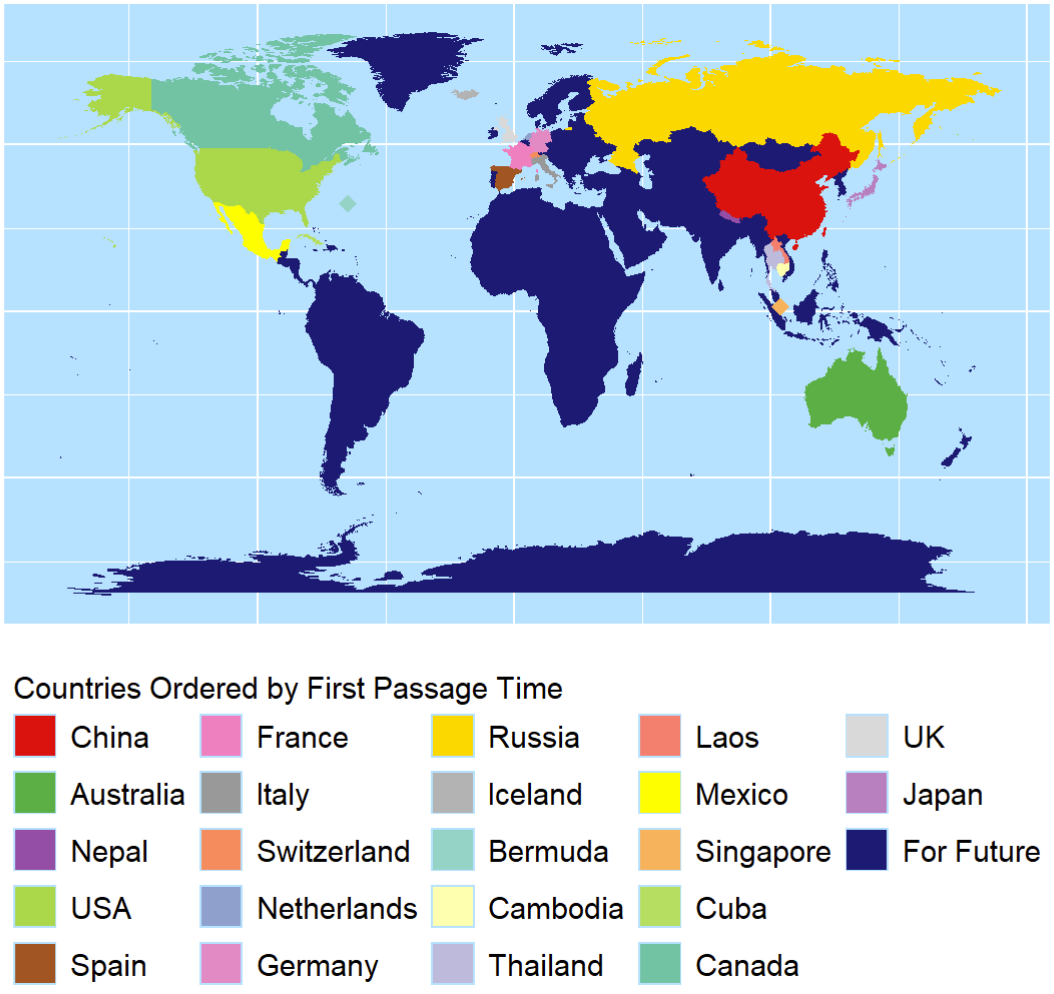
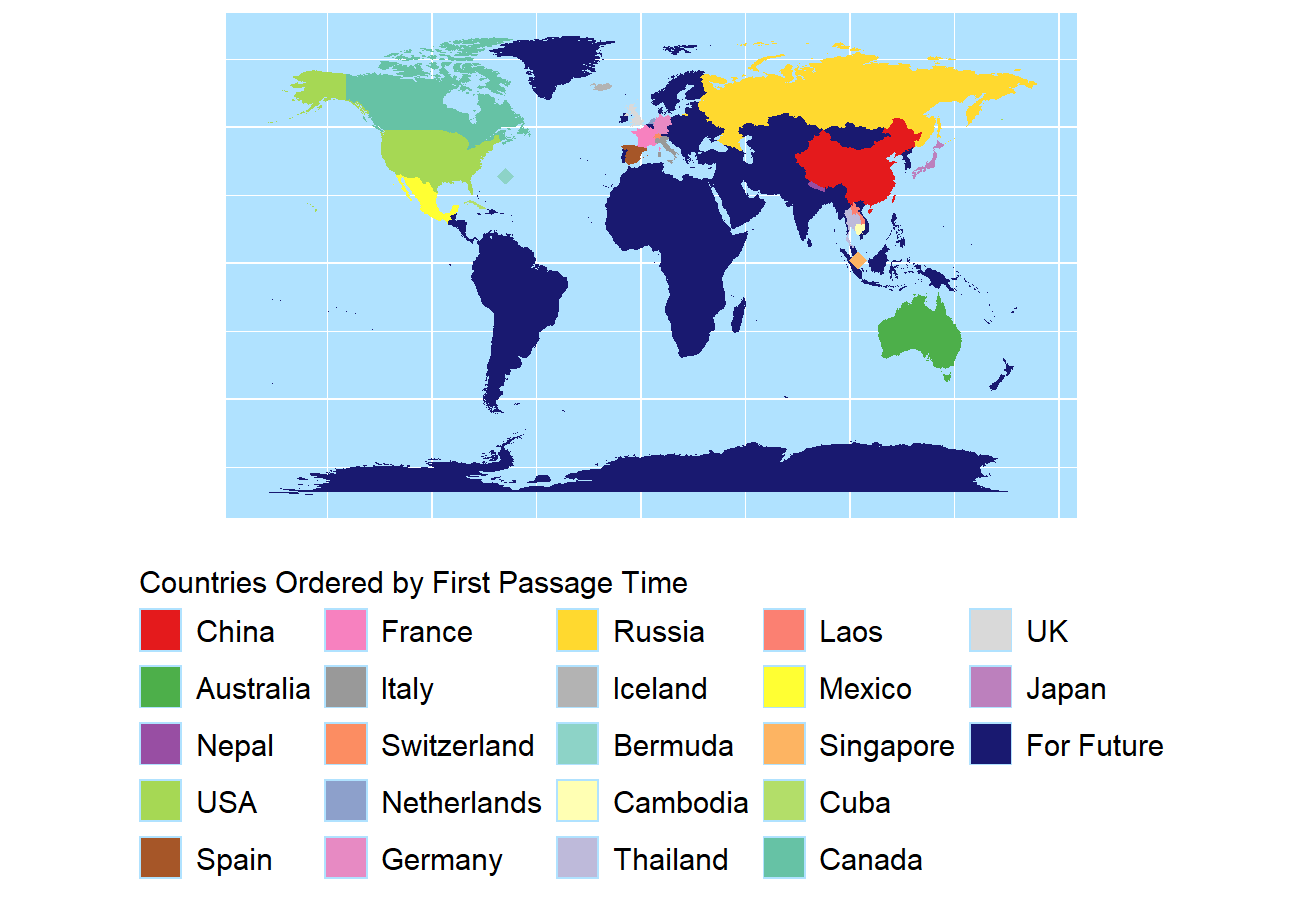
20260704

diff --git a/index.html b/index.html
@@ -704,6 +704,17 @@
       <p><b><font size='5'>Working Papers:</font></b></p>
 <link rel="stylesheet" href="https://cdnjs.cloudflare.com/ajax/libs/font-awesome/4.7.0/css/font-awesome.min.css">
 <!--
+shuyu
+-->
+<div class="view-list-item" itemscope itemtype="http://schema.org/{{$microdata_type}}">
+  <i class="far fa-file-alt" aria-hidden="true"></i>
+    <a href="https://papers.ssrn.com/sol3/papers.cfm?abstract_id=7051998" itemprop="url"><span itemprop="name">	
+When Engagement is Not Enough: Gameplay Elements in Educational Platforms.</span></a>
+<div class="article-metadata" itemprop="author">
+    with Yipu Deng, Jun Li and Liu Ming.
+  </div>
+</div>
+<!--
 Point redemption
 -->
 <div class="view-list-item" itemscope itemtype="http://schema.org/{{$microdata_type}}">